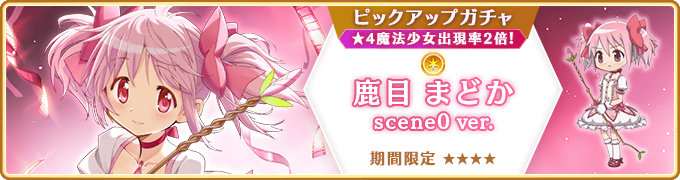
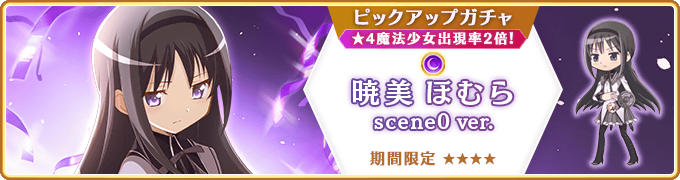
Scene0 Upddate

diff --git a/js/data.js b/js/data.js
@@ -202,12 +202,12 @@ var timerData = [
 
         ],
         "column": 0,
-        "priority": 0,
+        "priority": 1,
         "timers": [
 			{
-				name: "Estimated release date",
-				start: "nov 21 2023, 17:00",
-				end: "nov 28 2023, 23:59",
+				name: "",
+				start: "nov 6 2023, 17:00",
+				end: "nov 24 2023, 23:59",
 			},
 		]
 	},
@@ -251,7 +251,7 @@ var timerData = [
 			"imgs/ween/event00.png"
         ],
         "column": 0,
-        "priority": 1,
+        "priority": 2,
         "timers": [
 			{
 				name: "",
@@ -718,19 +718,20 @@ var timerData = [
 	{
         "type": "Gacha",
         "title": [
-			"One Time Guareteed ★ 4 Dark Attribute Paid Gacha",
-            "『闇属性魔法少女★4確定ガチャ予告』"
+            "【New Limited Gatcha】Homura Akemi scene0 ver. Pickup & Step-up Gacha",
+			"『期間限定 暁美ほむら scene0 ver. ステップアップ&ピックアップガチャ』"
         ],
         "image": [
-			"imgs/kimochi/gacha0001.png"
+			"imgs/scene-zero/gacha00.png",
+			"imgs/scene-zero/gacha01.png"
         ],
         "column": 1,
         "priority": 0,
         "timers": [
             {
                 name: "",
-                start: "oct 16 2023, 16:00",
-				end: "oct 23 2023, 14:59",
+				start: "nov 6 2023, 16:00",
+				end: "nov 15 2023, 14:59",
                 extraPriority: 100,
             }
         ]
